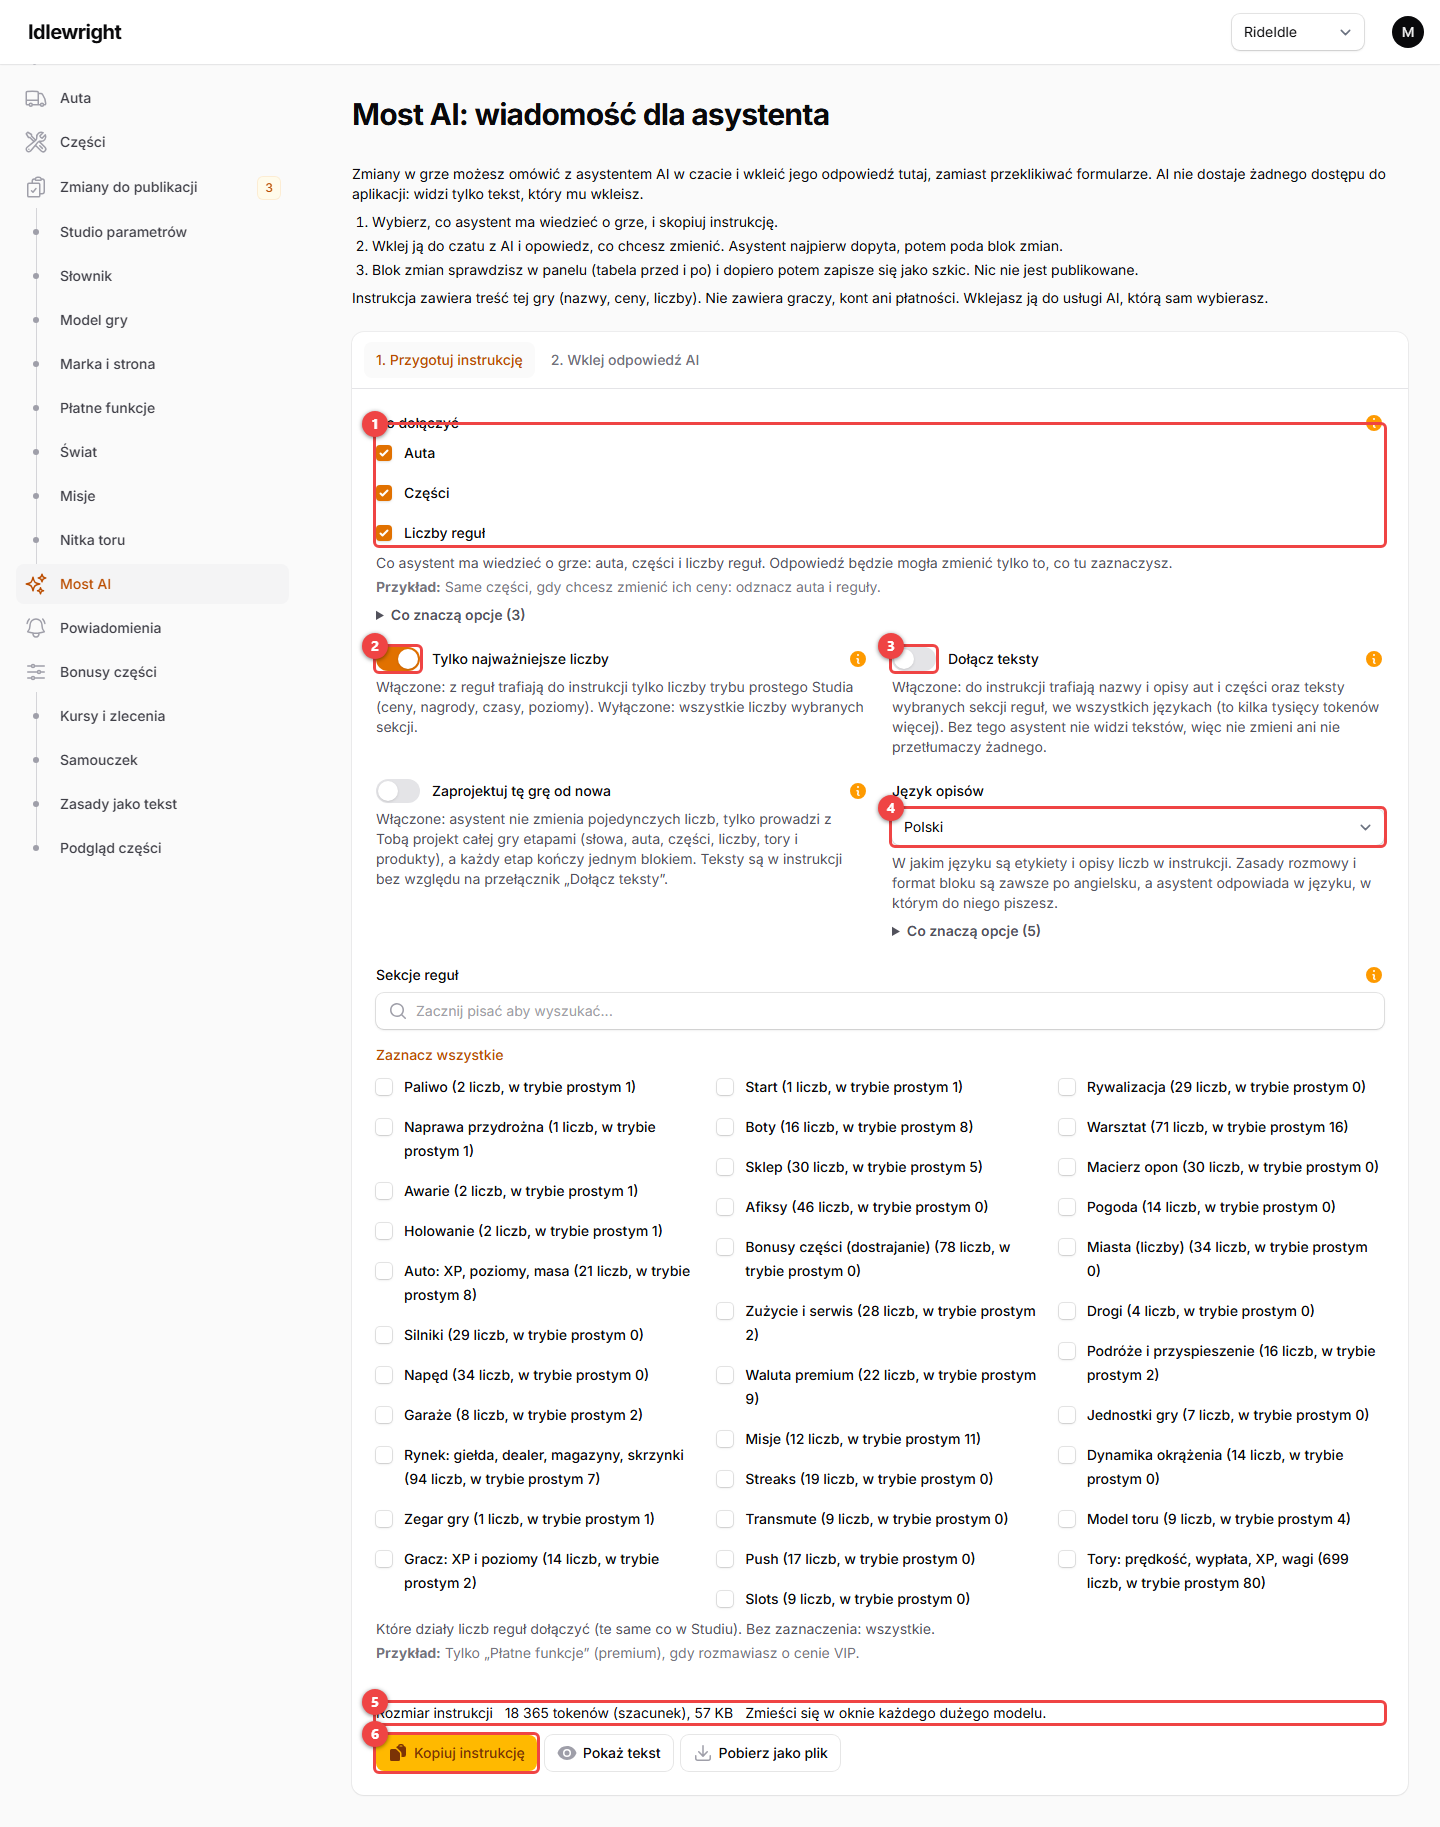
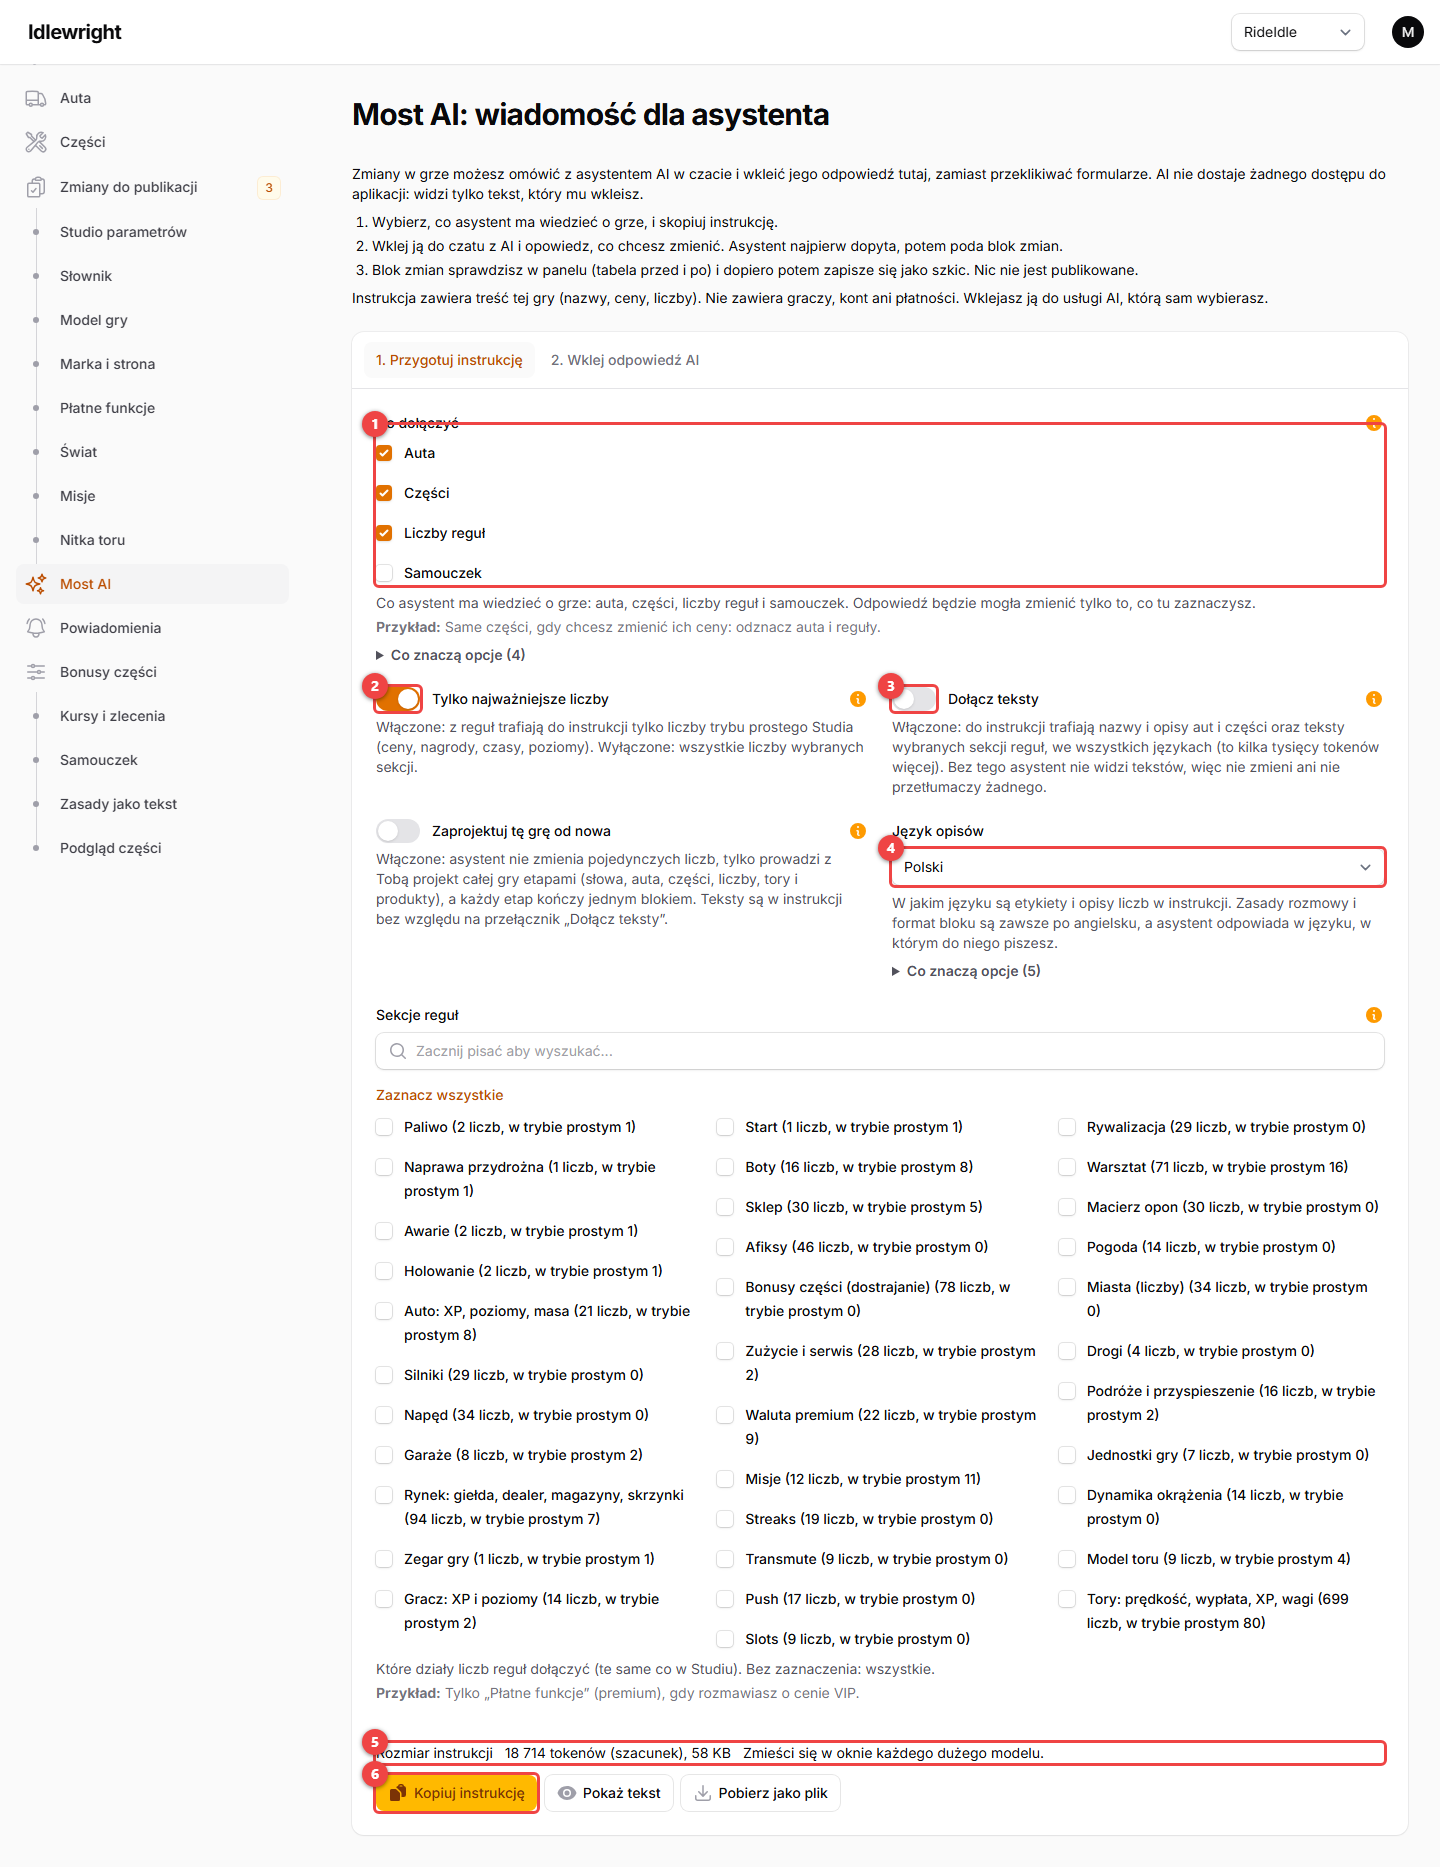
docs(manual): the device, the words and the story of the tutorial, and the tutorial in the AI bridge (stage S5)

diff --git a/docs/podrecznik-panelu.md b/docs/podrecznik-panelu.md
@@ -478,12 +478,36 @@ Menu Treść → Samouczek. Góra strony to ustawienia pierwszego przejazdu (pal
 5. **Kroki samouczka.** Kroki w kolejności, w jakiej kierowca je spotyka. Krok zaczyna się, gdy poprzedni jest zrobiony i zachodzi jego początek, a kończy, gdy zachodzi jego koniec. Przykład: Obecnie 20 kroków: 5 w fazie 1, 5 w fazie 2, 6 w fazie 3 i 4 w fazie 4. Wskazówka: Kolejność jest ważna: krok, którego początek nie zachodzi, wstrzymuje wszystkie za nim. Krok dodany później zaczyna się u każdego kierowcy, który nie zrezygnował z samouczka i nie ma dla niego wiersza, także u tego, który jest już dalej albo go skończył (gdy tylko zachodzi jego początek); u kierowcy, który jest już za nim, nie wstrzymuje kroków za sobą i nie liczy się do jego postępu, dopóki się nie zacznie. Kierowca, który z samouczka zrezygnował, takiego kroku nie dostaje. Kroku, w którym są gracze, nie można usunąć z paczki.
 6. **Klucz kroku.** Stały identyfikator kroku: małe litery, cyfry i myślniki, najwyżej 64 znaki, unikatowy. Na nim opiera się postęp kierowców, więc go nie zmieniaj i nie usuwaj kroku, w którym są gracze: publikacja takiej paczki jest odrzucana. Przykład: first-lap, rain, network. Wskazówka: Trzy klucze zna sam serwer: „repair” (awaria pierwszego auta trwa, dopóki ten krok nie jest zrobiony; symulator ekonomii nie liczy jego gotówki jako daru), „mount” (od zrobionej naprawy do zrobionego montażu pierwsze zlecenie jest krótkie) i „crate” (od zrobionego montażu do zrobionej skrzynki pierwsza skrzynka jest za darmo). Nie zmieniaj ich ani kolejności tych kroków. Sprawdzenie paczki ostrzega, gdy któregoś z trzech brakuje.
 7. **Faza.** Do której części samouczka należy krok. Pasek celu pokazuje cztery kropki, wypełnione do fazy kroku. Symulator ekonomii liczy XP, gotówkę i garaże kroków faz 1–2 jako „pierwsze piętnaście minut” i porównuje je z modelem (economy.json, model.tutorial: dziś 4 700 XP, $590 i 1 garaż). Zakres: 1 – 4.
-8. **Numer mentora.** Zmyślony numer, z którego mentor pisze w tym kroku; widać go na górze telefonu. Mentor się ukrywa, więc zmienia numer w każdym kroku. Zakres: Dokładnie „+48 555 010” i trzy cyfry. Przykład: +48 555 010 120.
+8. **Nadawca.** Od kogo są wiadomości tego kroku; widać to na górze urządzenia (telefonu, listu, tabletu). Dowolny tekst, ten sam w każdym języku: numer, nazwa, znak wywoławczy. Puste pole to nadawca urządzenia (sekcja „Urządzenie”). W RideIdle mentor się ukrywa, więc w każdym kroku pisze z innego zmyślonego numeru. Zakres: Najwyżej 40 znaków. Przykład: +48 555 010 120; Kapitanat portu; Kanał 7.
 <!-- /legenda -->
 
 **Wersja samouczka** (rok, miesiąc i kolejny numer, na przykład `2026.10.4`) to tylko etykieta wydania: silnik nie podejmuje na jej podstawie decyzji, ale zwiększ ją, gdy zmieniasz kroki, żeby odróżniać wydania. **Kroku, w którym są gracze, nie można usunąć:** publikacja takiej paczki jest odrzucana.
 
-**Co się stanie w grze i kiedy:** nowi gracze po następnej paczce zaczynają od nowej wersji samouczka.
+### Urządzenie, słowa i historia na start
+
+Każda gra ma własny samouczek: RideIdle pisze z pękniętego telefonu, gra o statkach może pisać listy, a gra kosmiczna z tabletu albo z urządzenia narysowanego przez grę. Między ustawieniami pierwszego przejazdu a krokami są trzy sekcje:
+
+- **Urządzenie.** Na czym mentor pisze: telefon, list, tablet, zwykłe okno w kolorach gry albo **własny obraz** (wgrywasz obraz ramki z przezroczystym miejscem na ekran i podajesz, ile procent obrazu zostaje od ekranu do każdej krawędzi). Przełączniki wyłączają części urządzenia (pęknięcia ekranu, pasek sieci i baterii, pole odpowiedzi, przycisk „Kto to?”). **Nadawca urządzenia** to nadawca kroków, które nie mają własnego: wpisz go raz, gdy mentor pisze zawsze z tego samego miejsca. **Ikona** to mała ikona na pasku celu (bez niej gra rysuje ikonę urządzenia).
+- **Słowa samouczka.** Każdy komunikat samouczka aplikacji (sieć, „Kto to?”, odpowiedź mentora, „Wyślij”, okno pomijania, komunikaty nagród, pasek celu) w pięciu językach. Puste pole to tekst aplikacji, który widać jako podpowiedź; nazwy w klamrach (`{cash}`) muszą zostać. Te słowa nie są już na stronie Słownik.
+- **Historia na start.** Co gracz widzi między nadaniem imienia a wyborem wraku: **historia aplikacji** (cztery sceny RideIdle), **własna historia** (obraz, od jednej do sześciu scen z czasem, ruchem kamery i punktem skupienia, pierwsza wiadomość i słowa ekranu) albo **bez historii** (gracz od razu wybiera wrak; sceny zostają w dokumencie na później). `{name}` w tekście sceny to imię gracza.
+
+Nadawca kroku to teraz dowolny tekst (numer, nazwa, znak wywoławczy), najwyżej 40 znaków; gdy ma się różnić między językami, rozwiń „Nadawca w językach”. Wiadomość ma najwyżej 200 znaków, a w liście 400.
+
+![Samouczek: urządzenie i historia](img/podrecznik-samouczek-urzadzenie.png)
+
+<!-- legenda:samouczek-urzadzenie -->
+1. **Urządzenie.** Na czym mentor pisze do kierowcy. Zmienia wygląd okna wiadomości na każdym ekranie gry i pierwszej wiadomości w historii na start. Przykład: RideIdle: Telefon. Gra o statkach: List. Gra kosmiczna: Tablet.
+2. **Nadawca urządzenia.** Od kogo są wiadomości kroków, które nie mają własnego nadawcy. Wpisz go raz, gdy mentor pisze zawsze z tego samego miejsca, a pola „Nadawca” w krokach zostaw puste. Zakres: Najwyżej 40 znaków. Przykład: Kapitanat portu.
+3. **Pęknięcia ekranu.** Rysuje pęknięcia na ekranie telefonu. Pęknięcia ma tylko telefon; przy innych urządzeniach przełącznik nic nie zmienia.
+4. **Słowa samouczka.** Rozwiń, żeby powiedzieć słowa samouczka po swojemu; puste pole to tekst aplikacji.
+5. **Historia na start.** Co kierowca widzi między nadaniem imienia a wyborem wraku.
+6. **Sceny.** Od jednej do sześciu scen, w kolejności. Każda zostaje na ekranie przez swój czas albo do dotknięcia; w ostatniej przychodzi pierwsza wiadomość. Zakres: 1–6 scen. Przykład: RideIdle: 4 sceny, razem 24 s.
+7. **Ruch kamery.** Jak kamera porusza się po obrazie w tej scenie.
+<!-- /legenda -->
+
+**Przez asystenta AI:** zaznacz „Samouczek” w Moście AI (rozdział 17). Asystent zmieni urządzenie, nadawców, teksty kroków, słowa i sceny oraz doda nowy krok, ale nie usunie kroku, nie zmieni kolejności i nie wgra obrazu.
+
+**Co się stanie w grze i kiedy:** nowi gracze po następnej paczce zaczynają od nowej wersji samouczka. Urządzenie, nadawcy i słowa zmieniają się po paczce także u graczy, którzy są w trakcie (słowa najpóźniej minutę po niej, bo przeglądarka trzyma je przez 60 s).
 
 **Nie rozstrzygnięte:** co dzieje się z krokami dodanymi później u graczy, którzy są już dalej w samouczku (czy dostaną je, czy nie), nie jest dziś ustalone i nie jest tu opisane. Zanim dodasz krok w środku działającej gry, sprawdź to na koncie testowym.
 
@@ -1099,12 +1123,12 @@ Most składa się z dwóch przepływów: panel **przygotowuje instrukcję** dla 
 
 ### 17.1. Przygotuj instrukcję
 
-Menu Treść → Most AI, karta „1. Przygotuj instrukcję”. Wybierz, co dołączyć: auta, części, liczby reguł (tryb prosty albo wszystkie), sekcje, teksty (przełącznik „Dołącz teksty”), a także tryb „zaprojektuj tę grę od nowa”. Panel pokazuje **rozmiar instrukcji w tokenach** (to szacunek) i kolor: do 30 tysięcy zielony, do 80 tysięcy żółty, powyżej czerwony (zmniejsz wybór, bo instrukcja może się nie zmieścić w oknie czatu).
+Menu Treść → Most AI, karta „1. Przygotuj instrukcję”. Wybierz, co dołączyć: auta, części, liczby reguł (tryb prosty albo wszystkie), samouczek (kroki po kluczach, urządzenie, nadawcy, słowa i historia), sekcje, teksty (przełącznik „Dołącz teksty”), a także tryb „zaprojektuj tę grę od nowa”. Panel pokazuje **rozmiar instrukcji w tokenach** (to szacunek) i kolor: do 30 tysięcy zielony, do 80 tysięcy żółty, powyżej czerwony (zmniejsz wybór, bo instrukcja może się nie zmieścić w oknie czatu).
 
 ![Most AI: instrukcja](img/podrecznik-most-ai-instrukcja.png)
 
 <!-- legenda:most-ai-instrukcja -->
-1. **Co dołączyć.** Co asystent ma wiedzieć o grze: auta, części i liczby reguł. Odpowiedź będzie mogła zmienić tylko to, co tu zaznaczysz. Przykład: Same części, gdy chcesz zmienić ich ceny: odznacz auta i reguły. Wskazówka: Im mniej zaznaczysz, tym krótsza instrukcja i tym dokładniejsza rozmowa.
+1. **Co dołączyć.** Co asystent ma wiedzieć o grze: auta, części, liczby reguł i samouczek. Odpowiedź będzie mogła zmienić tylko to, co tu zaznaczysz. Przykład: Same części, gdy chcesz zmienić ich ceny: odznacz auta i reguły. Wskazówka: Im mniej zaznaczysz, tym krótsza instrukcja i tym dokładniejsza rozmowa.
 2. **Tylko najważniejsze liczby.** Włączone: z reguł trafiają do instrukcji tylko liczby trybu prostego Studia (ceny, nagrody, czasy, poziomy). Wyłączone: wszystkie liczby wybranych sekcji. Wskazówka: Instrukcja ze wszystkimi liczbami jest kilka razy dłuższa.
 3. **Dołącz teksty.** Włączone: do instrukcji trafiają nazwy i opisy aut i części oraz teksty wybranych sekcji reguł, we wszystkich językach (to kilka tysięcy tokenów więcej). Bez tego asystent nie widzi tekstów, więc nie zmieni ani nie przetłumaczy żadnego. Wskazówka: Włącz, gdy chcesz zmieniać nazwy albo tłumaczyć.
 4. **Język opisów.** W jakim języku są etykiety i opisy liczb w instrukcji. Zasady rozmowy i format bloku są zawsze po angielsku, a asystent odpowiada w języku, w którym do niego piszesz.
@@ -1158,10 +1182,12 @@ Przy zmianie tylko jednego auta albo jednej części użyj przycisku **„Przygo
 2. **„Zmień cenę VIP.”** Cena VIP jest w **monetach**, więc asystent pyta o nową liczbę monet i podaje ją w jednostkach Studia. Ceny w prawdziwych pieniądzach most pomija (rozdział 12).
 3. **„Dodaj nowe auto na wzór Rdzaka GT-4.”** Asystent kopiuje istniejące auto, zmienia pola i prosi o nowy slug, którego gra jeszcze nie użyła.
 4. **„Przemianuj Rdzaka GT-4 w tej grze.”** Operacja tekstu w jednym języku; inne języki (francuski, niemiecki, portugalski) są oznaczone jako tłumaczenie AI, nieprzejrzane.
+5. **„W grze o statkach mentor ma pisać listy od kapitanatu portu.”** Zaznacz w instrukcji **Samouczek**. Asystent pyta, czy wszystkie kroki mają pisać od tego samego nadawcy i czy zmienić też słowa (na przykład „Wyślij” na „Nadaj list”), streszcza i dopiero potem daje blok: wybór urządzenia (`/messenger/device` = `letter`), nadawcę (`/messenger/sender`) i słowa (`/messenger/labels/send`). Kroki wskazuje **kluczem**, nie numerem (`/steps/refuel/sms/0`), bo numery przesuwają się po dodaniu kroku.
+6. **„Dodaj krok po tankowaniu, w którym mentor przypomina o serwisie.”** Asystent wstawia nowy krok operacją `insert` po kroku `refuel`, z nowym kluczem i tekstami w pięciu językach. Panel sprawdza cały samouczek tak jak przy zapisie strony (klucz wolny, warunki z listy, nadawca, długość wiadomości).
 
 ### 17.7. Czego most nie robi
 
-Most **nie publikuje**, nie zakłada gier, nie zmienia cen w prawdziwych pieniądzach, nie wysyła obrazków, nie kasuje, nie wycofuje i nie archiwizuje. Zmienia wyłącznie to, co objęła instrukcja. Mapa liczb, które most potrafi zmienić, jest ta sama co w Studiu, więc obejmuje też klasy aut i PI (sekcja „competition”, przy wyłączonym „Tylko najważniejsze liczby”; rozdział 15).
+Most **nie publikuje**, nie zakłada gier, nie zmienia cen w prawdziwych pieniądzach, nie wysyła obrazków (także ramki urządzenia, ikony i obrazu historii samouczka), nie kasuje, nie wycofuje i nie archiwizuje. W samouczku nie usuwa kroków i nie zmienia ich kolejności: to robi się na stronie Samouczek. Zmienia wyłącznie to, co objęła instrukcja. Mapa liczb, które most potrafi zmienić, jest ta sama co w Studiu, więc obejmuje też klasy aut i PI (sekcja „competition”, przy wyłączonym „Tylko najważniejsze liczby”; rozdział 15).
 
 ### 17.8. Jak wypróbować most po raz pierwszy
 
